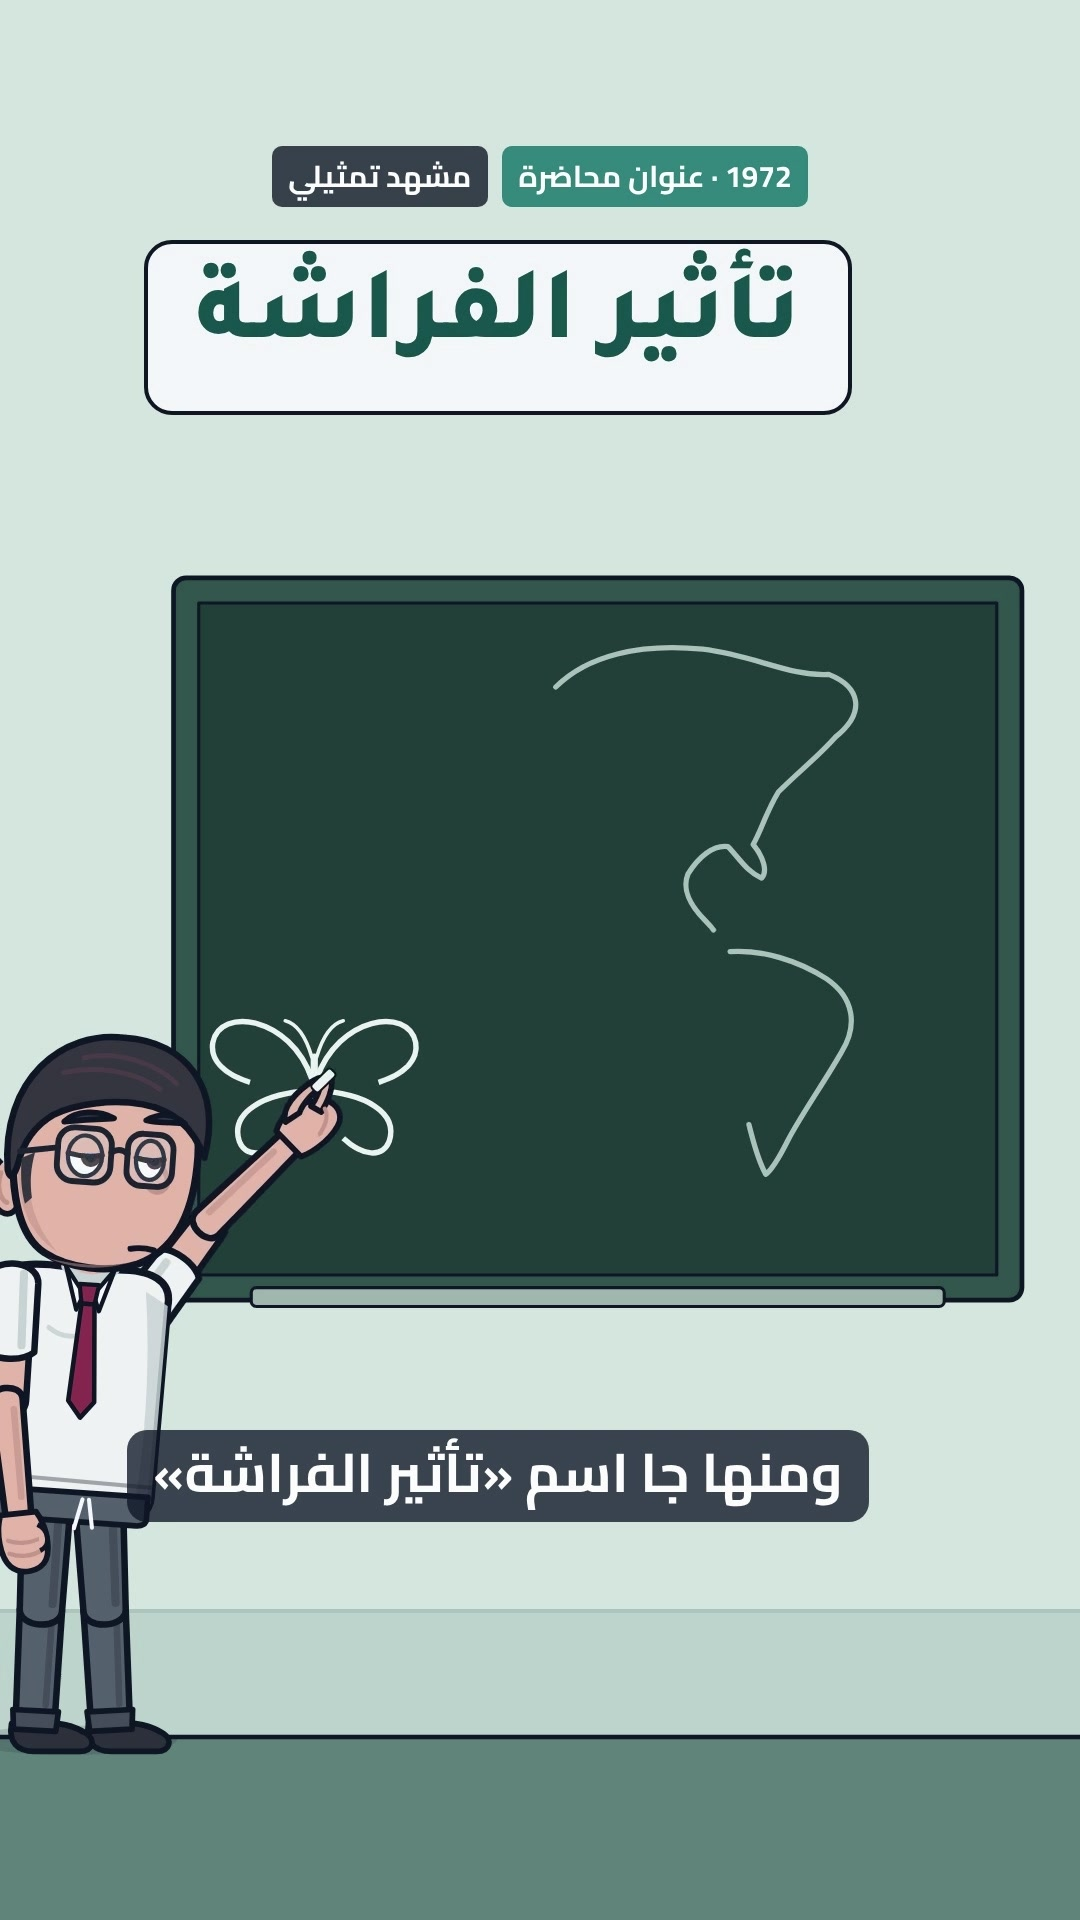
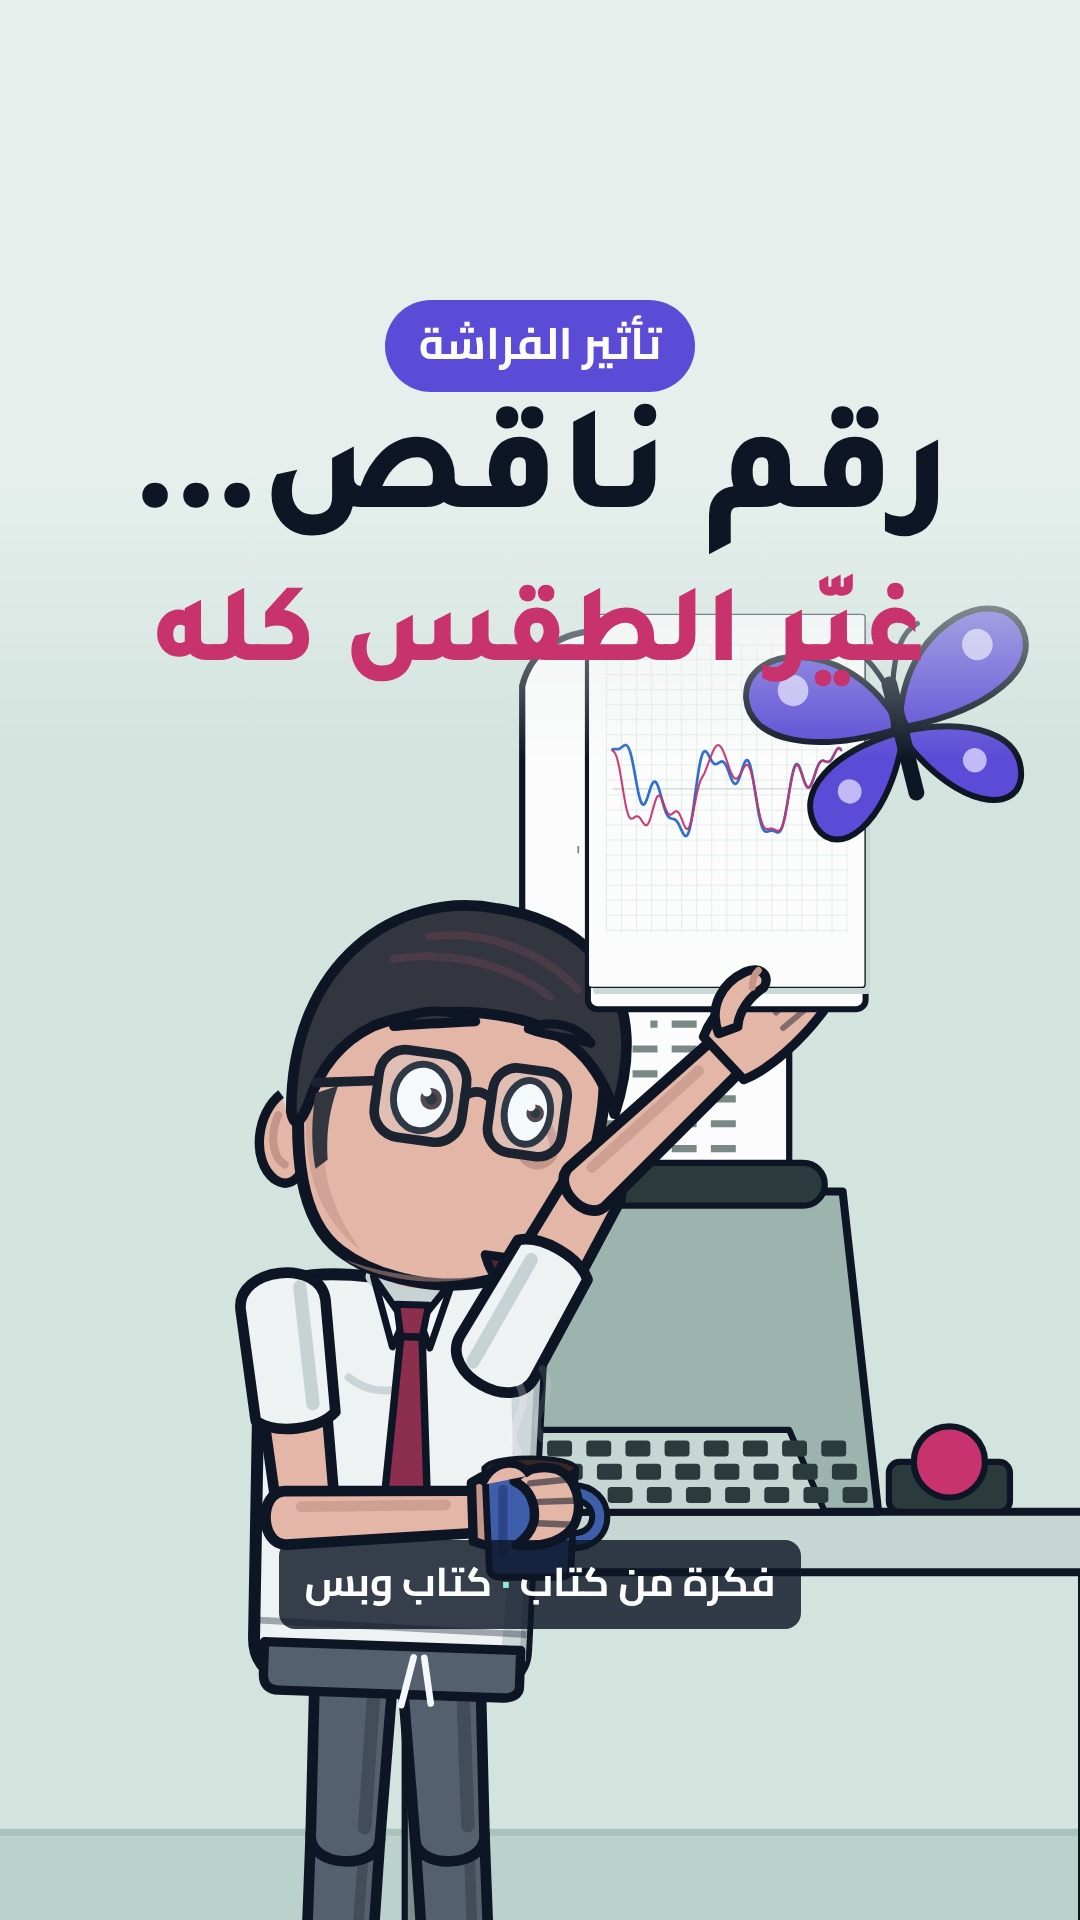
cr1-ep05: designed cover (Cover composition), final titles and captions
Claude-Session: https://claude.ai/code/session_01XA9pkr28rDihyc6Sr1HkTS

diff --git a/reels/cr1-ep05-farasha/src/Cover.tsx b/reels/cr1-ep05-farasha/src/Cover.tsx
@@ -1,0 +1,30 @@
+import React from 'react';
+import { AbsoluteFill } from 'remotion';
+import { BODY, TITLE } from './fonts';
+import { Butterfly } from './props';
+import { React_ } from './scenes/lab';
+import { C } from './theme';
+import { setFps } from './time';
+
+// The cover: his surprise, the two runs that parted on the sheet in his hand, the butterfly that named it.
+// Everything that matters sits inside the 4:5 centre crop (y 285–1635) that profile grids show.
+export const Cover: React.FC = () => {
+  setFps(60);
+  return (
+    <AbsoluteFill style={{ background: C.bg }}>
+      <React_ f={200} k={{ start: 0, stop: 60, shock: 120, end: 400 }} cam={{ x: 250, y: -610, z: 1.78 }}
+        extra={<g transform="translate(452 -742) rotate(-14)"><Butterfly flap={0.15} s={0.98} /></g>} />
+      <div style={{ position: 'absolute', left: 0, right: 0, top: 0, height: 760, background: `linear-gradient(${C.bg} 62%, rgba(230,239,236,0))` }} />
+      <div dir="rtl" lang="ar" style={{ position: 'absolute', top: 300, left: 70, right: 70, display: 'flex', flexDirection: 'column', alignItems: 'center', gap: 10 }}>
+        <div style={{ fontFamily: BODY, fontWeight: 700, fontSize: 44, color: C.paper, background: C.fly, borderRadius: 999, padding: '2px 34px 8px' }}>تأثير الفراشة</div>
+        <div style={{ fontFamily: TITLE, fontWeight: 800, fontSize: 150, lineHeight: 1.12, color: C.ink, textAlign: 'center' }}>رقم ناقص…</div>
+        <div style={{ fontFamily: TITLE, fontWeight: 800, fontSize: 112, lineHeight: 1.15, color: C.run2, textAlign: 'center' }}>غيّر الطقس كله</div>
+      </div>
+      <div dir="rtl" lang="ar" style={{ position: 'absolute', top: 1540, left: 0, right: 0, display: 'flex', justifyContent: 'center' }}>
+        <div style={{ fontFamily: BODY, fontWeight: 700, fontSize: 40, color: C.paper, background: 'rgba(14,22,38,0.82)', borderRadius: 16, padding: '4px 26px 10px' }}>
+          فكرة من كتاب <span style={{ color: C.lampOn }}>·</span> كتاب وبس
+        </div>
+      </div>
+    </AbsoluteFill>
+  );
+};

diff --git a/reels/cr1-ep05-farasha/src/scenes/lab.tsx b/reels/cr1-ep05-farasha/src/scenes/lab.tsx
@@ -136,13 +136,13 @@ export const Door: React.FC<{ f: number; k: DoorBeats }> = ({ f, k }) => {
 
 export type ReactBeats = { start: number; stop: number; shock: number; end: number };
 /** R5's last line: close on him at the desk, the new printout in one hand, the mug stopped halfway. */
-export const React_: React.FC<{ f: number; k: ReactBeats }> = ({ f, k }) => {
+export const React_: React.FC<{ f: number; k: ReactBeats; cam?: Cam; extra?: React.ReactNode }> = ({ f, k, cam, extra }) => {
   const up = prog(f, k.start, k.stop - k.start, ease.out);
   const sink = prog(f, k.shock + sec(0.5), sec(0.9), ease.inOut);
   const base = pose('stand', { lean: 2, headTurn: 0.95, headTilt: mix(-4, 6, prog(f, k.shock, sec(0.3))) });
   const p = reach(reach(base, 'F', tc([392, -585]), 'edge'), 'N', [mix(60, 52, up), mix(-190, -228, up) + 30 * sink], 'grip', -1);
   return (
-    <Frame c={camMix({ x: 250, y: -560, z: 2.0 }, { x: 236, y: -572, z: 2.12 }, prog(f, k.start, k.end - k.start, ease.inOut))} bg={C.bg} world={<>
+    <Frame c={cam ?? camMix({ x: 250, y: -560, z: 2.0 }, { x: 236, y: -572, z: 2.12 }, prog(f, k.start, k.end - k.start, ease.inOut))} bg={C.bg} world={<>
       <Lab f={f} clockMin={clockAt(60)} light={1} lamps={1.6} rows={16} cloudShift={900 + f * 0.15} />
       <Actor f={f} d={who({
         pose: [{ at: 0, to: p }],
@@ -152,6 +152,7 @@ export const React_: React.FC<{ f: number; k: ReactBeats }> = ({ f, k }) => {
         holdF: <g transform={`scale(${1.3 / S})`}><Sheet plot /></g>,
         holdN: <g transform={`scale(${0.85 / S}) translate(-4 46)`}><Mug steam={0.6} f={f} /></g>,
       })} />
+      {extra}
     </>} />
   );
 };

diff --git a/reels/cr1-ep05-farasha/src/Root.tsx b/reels/cr1-ep05-farasha/src/Root.tsx
@@ -1,6 +1,7 @@
 import React from 'react';
 import { Composition } from 'remotion';
 import { loadFonts } from './fonts';
+import { Cover } from './Cover';
 import { REEL, Reel } from './Film';
 import { FPS, H, W } from './theme';
 
@@ -9,6 +10,7 @@ loadFonts();
 export const Root: React.FC = () => (
   <>
     <Composition id="Reel" component={Reel} durationInFrames={REEL.durationInFrames} fps={FPS} width={W} height={H} defaultProps={{ check: false, show: false }} />
+    <Composition id="Cover" component={Cover} durationInFrames={1} fps={FPS} width={W} height={H} />
     <Composition id="ReelCheck" component={Reel} durationInFrames={REEL.durationInFrames} fps={FPS} width={W} height={H} defaultProps={{ check: true, show: true }} />
   </>
 );

diff --git a/reels/cr1-ep05-farasha/publish/platforms.md b/reels/cr1-ep05-farasha/publish/platforms.md
@@ -1,33 +1,59 @@
-# العنوان والكابشن: تأثير الفراشة
+# العنوان والكابشن والغلاف: تأثير الفراشة
 
-الريل: `export/cr1-ep05_farasha_9x16_v1.0.0.mp4`
-الغلاف: `publish/cover_9x16.jpg`
-لم يُنشر شيء. النشر ينتظر أمرك.
+- الريل: `export/cr1-ep05_farasha_9x16_v1.0.0.mp4`
+- الغلاف: `publish/cover_9x16.jpg`. صورة 1080×1920، والعنوان والوجه داخل قصّ 4:5 الذي يظهر في شبكة الحساب.
+- الترجمة: `export/cr1-ep05_farasha_9x16_v1.0.0.ar.srt`
 
+لم يُنشر شيء. النشر ينتظر أمرك. وقبله تُسمع ثلاث كلمات: «ثلاث» و«ظهرت» و«تكساس» (انظر `LESSONS_LEARNED.md`).
+
+## العنوان
+```
+رقم ناقص… غيّر الطقس كله | تأثير الفراشة
+```
+بدائل:
+- `راح يشرب قهوة… ورجع لطقس ثاني`
+- `من وين جا اسم «تأثير الفراشة»؟`
+
+## يوتيوب شورتس
 **العنوان**
 ```
 رقم ناقص… غيّر الطقس كله | تأثير الفراشة
 ```
-
-**يوتيوب شورتس (الوصف)**
+**الوصف**
 ```
-سنة 1961 أعاد عالم الأرصاد إدوارد لورنز حسبة طقس على الكمبيوتر، ونقل الأرقام من الورقة مقرّبة لثلاث خانات… وراح يشرب قهوة. رجع بعد ساعة ولقى طقس ثاني تمامًا.
-من هنا جاء اسم «تأثير الفراشة»: في نظام مثل الطقس، الفرق الصغير في البداية يكبر مع الوقت، ولذلك ما نقدر نتوقع الطقس بدقة لأبعد من أسبوعين تقريبًا.
+سنة 1961 أعاد عالم الأرصاد إدوارد لورنز حسبة طقس على الكمبيوتر. نقل الأرقام من الورقة مقرّبة لثلاث خانات… وراح يشرب قهوة. رجع بعد ساعة ولقى طقس ثاني تمامًا.
 
-المشاهد إعادة تمثيل مرسومة. القصة من رواية لورنز في «جوهر الفوضى»، ويرويها جيمس غليك في «نظرية الفوضى».
+من هنا جاء اسم «تأثير الفراشة»: في نظام مثل الطقس، الفرق الصغير في البداية يكبر مع الوقت، ولذلك ما نقدر نتوقع الطقس بدقة لأبعد من أسبوعين تقريبًا.
+وفي محاضرته عن الفراشة قال: الرفرفة اللي تقدر تساعد في إعصار، تقدر تساعد في منعه.
+
+المشاهد إعادة تمثيل مرسومة. القصة من رواية لورنز نفسه، ويرويها جيمس غليك في كتاب «نظرية الفوضى».
 
 فكرة من كتاب · كتاب وبس
 #فكرة_من_كتاب #تأثير_الفراشة #نظرية_الفوضى
 ```
 
-**إنستغرام وفيسبوك وX**
+## إنستغرام وفيسبوك (ريلز)
 ```
 نفس الحسبة… ونفس الجهاز… وطلع طقس ثاني تمامًا 🦋
 
 لورنز نقل رقمًا مقرّبًا لثلاث خانات، وراح يشرب قهوة. ولما رجع، كان الفرق الصغير قد كبر حتى غيّر كل شيء.
+ومن هنا جاء اسم «تأثير الفراشة».
+
 وجوابه عن الفراشة: الرفرفة اللي تقدر تساعد في إعصار، تقدر تساعد في منعه… يعني ما نقدر نعرف.
 
 إيش أصغر تفصيلة غيّرت يومك؟ 👇
 
-#فكرة_من_كتاب #تأثير_الفراشة
+(إعادة تمثيل مرسومة لقصة حقيقية، من كتاب «نظرية الفوضى» لجيمس غليك)
+
+#فكرة_من_كتاب #تأثير_الفراشة #نظرية_الفوضى
+```
+
+## X
+```
+سنة 1961 نقل عالم أرصاد رقمًا مقرّبًا لثلاث خانات… وراح يشرب قهوة.
+رجع بعد ساعة ولقى طقس ثاني تمامًا 🦋
+
+ومن هنا جاء اسم «تأثير الفراشة».
+
+إيش أصغر تفصيلة غيّرت يومك؟
 ```
